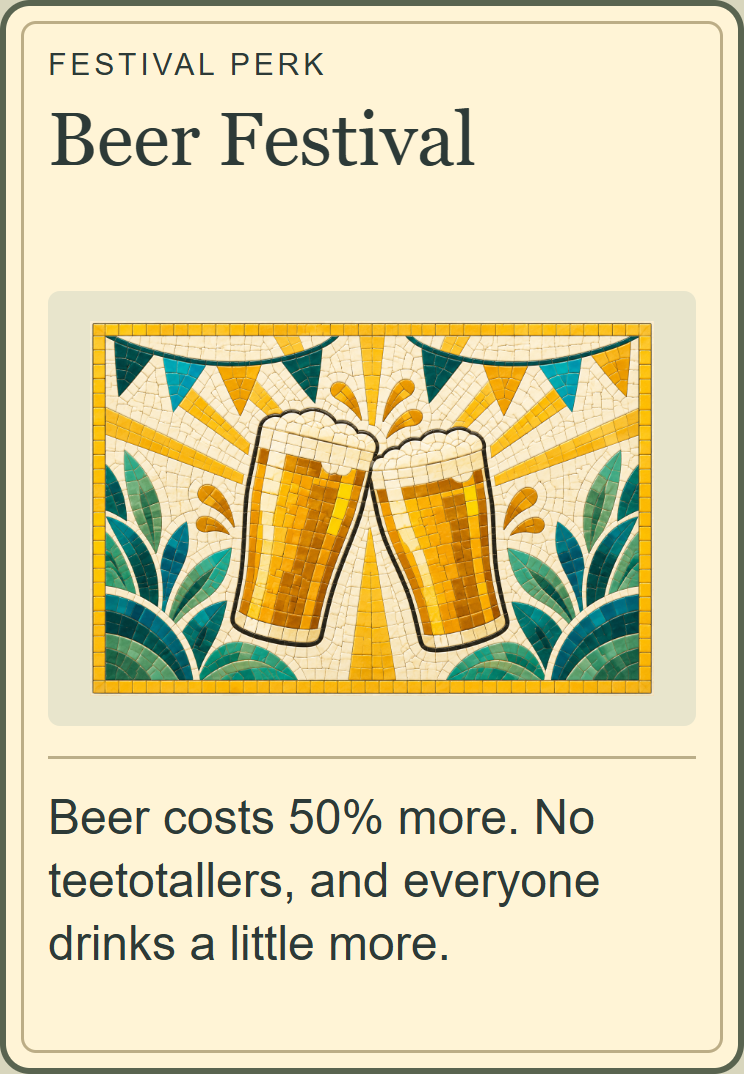
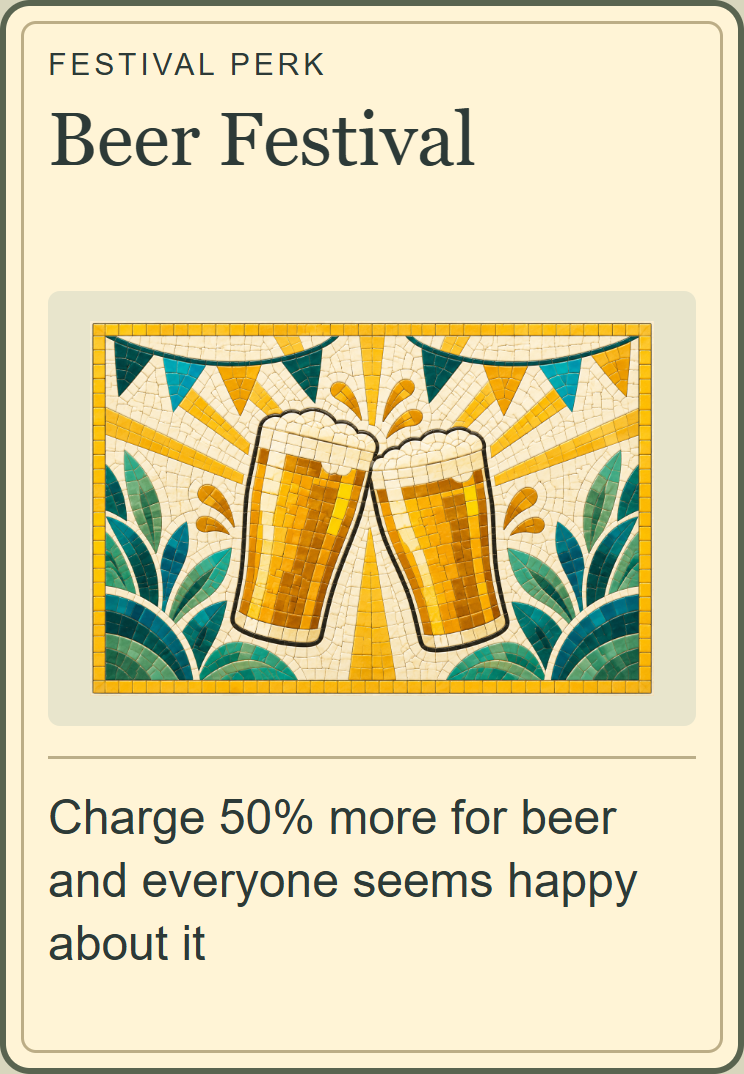
Set Beer Festival display copy to requested wording

Changed region(s): [[0.0618, 0.7374, 0.8656, 0.8911]]

diff --git a/assets/source/perks/mosaic-suite-batch2/review.html b/assets/source/perks/mosaic-suite-batch2/review.html
@@ -1,4 +1,4 @@
 <!doctype html><html lang="en"><meta charset="utf-8"><title>Mosaic perks · batch 2 review</title><style>
 *{box-sizing:border-box}body{margin:0;padding:24px;background:#d8d6bd;color:#2d3a37;font:16px/1.35 Arial,sans-serif}h1{font:28px Georgia,serif;margin:0 0 8px}.intro{margin:0 0 20px}.sheet{display:grid;grid-template-columns:repeat(3,248px);gap:24px;width:max-content}.unit>small{display:block;font-size:11px;margin:8px 0 0}.card{width:248px;height:358px;padding:14px;border:2px solid #596450;border-radius:10px;background:#fff4d6;position:relative}.card:before{content:'';position:absolute;inset:5px;border:1px solid #bcad86;border-radius:5px;pointer-events:none}.category{font-size:10px;letter-spacing:.13em;line-height:12px}.card h2{font:500 25px/1.04 Georgia,serif;height:56px;margin:5px 0 8px}.art{width:216px;height:145px;padding:10px;background:#e8e5cc;border-radius:4px;display:flex;align-items:center;justify-content:center}.art img{width:100%;height:100%;object-fit:contain}.effect{font:16px/1.3 Arial,sans-serif;margin:10px 0 0;padding-top:10px;border-top:1px solid #bbae89}.owned-sheet{display:grid;grid-template-columns:repeat(3,250px);gap:24px;width:max-content}.owned{width:250px;height:142px;padding:9px;background:#fff4d6;border-radius:5px}.owned header{display:flex;gap:8px}.thumb{width:46px;height:46px;flex:none;display:flex;align-items:center;justify-content:center}.thumb img{width:46px;height:46px;object-fit:contain}.owned h2{font:500 19px/1.1 Georgia,serif;width:174px;min-height:46px;margin:0}.owned p{font:14px/1.2 Arial,sans-serif;margin:6px 0 0;width:232px;min-height:66px}.section{font:24px Georgia,serif;margin:30px 0 15px}footer{margin-top:20px;font-size:13px}
 h1{line-height:34px}.intro{line-height:22px}.unit>small{line-height:16px}.section{line-height:28px}
-</style><h1>Festival perks · mosaic suite · batch 2</h1><p class="intro">Six new perks · exact current catalogue copy · artwork is text-free</p><main class="sheet"><section class="unit"><article class="card" id="card-beer-festival"><div class="category">FESTIVAL PERK</div><h2>Beer Festival</h2><div class="art"><img src="artwork/beer-festival.png" alt="Beer Festival"></div><p class="effect">Beer costs 50% more. No teetotallers, and everyone drinks a little more.</p></article><small>beer-festival</small></section><section class="unit"><article class="card" id="card-friendly-queues"><div class="category">FESTIVAL PERK</div><h2>Friendly Queues</h2><div class="art"><img src="artwork/friendly-queues.png" alt="Friendly Queues"></div><p class="effect">Guests chat in queues and gain satisfaction while they wait.</p></article><small>friendly-queues</small></section><section class="unit"><article class="card" id="card-bring-your-own-bottle"><div class="category">FESTIVAL PERK</div><h2>Bring Your Own Bottle</h2><div class="art"><img src="artwork/bring-your-own-bottle.png" alt="Bring Your Own Bottle"></div><p class="effect">Guests get thirsty more slowly, but take longer to fill up at taps.</p></article><small>bring-your-own-bottle</small></section><section class="unit"><article class="card" id="card-cola-fiends"><div class="category">FESTIVAL PERK</div><h2>Cola Fiends</h2><div class="art"><img src="artwork/cola-fiends.png" alt="Cola Fiends"></div><p class="effect">Guests prefer soft drinks to free water.</p></article><small>cola-fiends</small></section><section class="unit"><article class="card" id="card-alcoholics"><div class="category">FESTIVAL PERK</div><h2>Alcoholics</h2><div class="art"><img src="artwork/alcoholics.png" alt="Alcoholics"></div><p class="effect">Guests buy much more beer, and get drunk more.</p></article><small>alcoholics</small></section><section class="unit"><article class="card" id="card-robot-workers"><div class="category">FESTIVAL PERK</div><h2>Robot Workers</h2><div class="art"><img src="artwork/robot-workers.png" alt="Robot Workers"></div><p class="effect">Staff never need to drink, eat, cool off or use the loo.</p></article><small>robot-workers</small></section></main><h2 class="section">Suite-v1 owned-size review · 250 × 142</h2><section class="owned-sheet"><article class="owned" id="owned-beer-festival"><header><div class="thumb"><img src="artwork/beer-festival.png" alt="Beer Festival"></div><h2>Beer Festival</h2></header><p>Beer costs 50% more. No teetotallers, and everyone drinks a little more.</p></article><article class="owned" id="owned-friendly-queues"><header><div class="thumb"><img src="artwork/friendly-queues.png" alt="Friendly Queues"></div><h2>Friendly Queues</h2></header><p>Guests chat in queues and gain satisfaction while they wait.</p></article><article class="owned" id="owned-bring-your-own-bottle"><header><div class="thumb"><img src="artwork/bring-your-own-bottle.png" alt="Bring Your Own Bottle"></div><h2>Bring Your Own Bottle</h2></header><p>Guests get thirsty more slowly, but take longer to fill up at taps.</p></article><article class="owned" id="owned-cola-fiends"><header><div class="thumb"><img src="artwork/cola-fiends.png" alt="Cola Fiends"></div><h2>Cola Fiends</h2></header><p>Guests prefer soft drinks to free water.</p></article><article class="owned" id="owned-alcoholics"><header><div class="thumb"><img src="artwork/alcoholics.png" alt="Alcoholics"></div><h2>Alcoholics</h2></header><p>Guests buy much more beer, and get drunk more.</p></article><article class="owned" id="owned-robot-workers"><header><div class="thumb"><img src="artwork/robot-workers.png" alt="Robot Workers"></div><h2>Robot Workers</h2></header><p>Staff never need to drink, eat, cool off or use the loo.</p></article></section><footer>Review compositions follow the suite-v1 pipeline, not a running-game screenshot. Runtime PNGs have no titles or effect text.</footer></html>
+</style><h1>Festival perks · mosaic suite · batch 2</h1><p class="intro">Six new perks · exact current catalogue copy · artwork is text-free</p><main class="sheet"><section class="unit"><article class="card" id="card-beer-festival"><div class="category">FESTIVAL PERK</div><h2>Beer Festival</h2><div class="art"><img src="artwork/beer-festival.png" alt="Beer Festival"></div><p class="effect">Charge 50% more for beer and everyone seems happy about it</p></article><small>beer-festival</small></section><section class="unit"><article class="card" id="card-friendly-queues"><div class="category">FESTIVAL PERK</div><h2>Friendly Queues</h2><div class="art"><img src="artwork/friendly-queues.png" alt="Friendly Queues"></div><p class="effect">Guests chat in queues and gain satisfaction while they wait.</p></article><small>friendly-queues</small></section><section class="unit"><article class="card" id="card-bring-your-own-bottle"><div class="category">FESTIVAL PERK</div><h2>Bring Your Own Bottle</h2><div class="art"><img src="artwork/bring-your-own-bottle.png" alt="Bring Your Own Bottle"></div><p class="effect">Guests get thirsty more slowly, but take longer to fill up at taps.</p></article><small>bring-your-own-bottle</small></section><section class="unit"><article class="card" id="card-cola-fiends"><div class="category">FESTIVAL PERK</div><h2>Cola Fiends</h2><div class="art"><img src="artwork/cola-fiends.png" alt="Cola Fiends"></div><p class="effect">Guests prefer soft drinks to free water.</p></article><small>cola-fiends</small></section><section class="unit"><article class="card" id="card-alcoholics"><div class="category">FESTIVAL PERK</div><h2>Alcoholics</h2><div class="art"><img src="artwork/alcoholics.png" alt="Alcoholics"></div><p class="effect">Guests buy much more beer, and get drunk more.</p></article><small>alcoholics</small></section><section class="unit"><article class="card" id="card-robot-workers"><div class="category">FESTIVAL PERK</div><h2>Robot Workers</h2><div class="art"><img src="artwork/robot-workers.png" alt="Robot Workers"></div><p class="effect">Staff never need to drink, eat, cool off or use the loo.</p></article><small>robot-workers</small></section></main><h2 class="section">Suite-v1 owned-size review · 250 × 142</h2><section class="owned-sheet"><article class="owned" id="owned-beer-festival"><header><div class="thumb"><img src="artwork/beer-festival.png" alt="Beer Festival"></div><h2>Beer Festival</h2></header><p>Charge 50% more for beer and everyone seems happy about it</p></article><article class="owned" id="owned-friendly-queues"><header><div class="thumb"><img src="artwork/friendly-queues.png" alt="Friendly Queues"></div><h2>Friendly Queues</h2></header><p>Guests chat in queues and gain satisfaction while they wait.</p></article><article class="owned" id="owned-bring-your-own-bottle"><header><div class="thumb"><img src="artwork/bring-your-own-bottle.png" alt="Bring Your Own Bottle"></div><h2>Bring Your Own Bottle</h2></header><p>Guests get thirsty more slowly, but take longer to fill up at taps.</p></article><article class="owned" id="owned-cola-fiends"><header><div class="thumb"><img src="artwork/cola-fiends.png" alt="Cola Fiends"></div><h2>Cola Fiends</h2></header><p>Guests prefer soft drinks to free water.</p></article><article class="owned" id="owned-alcoholics"><header><div class="thumb"><img src="artwork/alcoholics.png" alt="Alcoholics"></div><h2>Alcoholics</h2></header><p>Guests buy much more beer, and get drunk more.</p></article><article class="owned" id="owned-robot-workers"><header><div class="thumb"><img src="artwork/robot-workers.png" alt="Robot Workers"></div><h2>Robot Workers</h2></header><p>Staff never need to drink, eat, cool off or use the loo.</p></article></section><footer>Review compositions follow the suite-v1 pipeline, not a running-game screenshot. Runtime PNGs have no titles or effect text.</footer></html>

diff --git a/src/Festival.Simulation/Perks.cs b/src/Festival.Simulation/Perks.cs
@@ -20,7 +20,7 @@ public static class PerkCatalogue
         new("first-responders", "First Responders", "All medics walk faster and treat more quickly.", PerkRarity.Rare, 40),
         new("something-in-the-water", "Something in the Water", "Drinking free water improves satisfaction.", PerkRarity.Common, 110),
         new("thirsty-crowd", "Thirsty Crowd", "Guests grow thirsty faster.", PerkRarity.Common, 130),
-        new(BeerFestival, "Beer Festival", "Charge 50% more for beer and everyone loves it.", PerkRarity.Uncommon, 45),
+        new(BeerFestival, "Beer Festival", "Charge 50% more for beer and everyone seems happy about it", PerkRarity.Uncommon, 45),
         new(FriendlyQueues, "Friendly Queues", "Guests chat in queues: happier while they wait, and slower to lose patience.", PerkRarity.Uncommon, 45),
         new(BringYourOwnBottle, "Bring Your Own Bottle", "Guests get thirsty more slowly, but take longer to fill up at taps.", PerkRarity.Common, 120),
         new(ColaFiends, "Cola Fiends", "Guests prefer soft drinks to free water.", PerkRarity.Common, 120),

diff --git a/briefs/results/beer-festival-copy-independent-review.md b/briefs/results/beer-festival-copy-independent-review.md
@@ -1,0 +1,15 @@
+# Beer Festival copy: independent review
+
+14 October 2026. **PASS — no blocking findings in the wording-only scope.**
+
+Reviewed `docs/WORKING-AGREEMENTS.md`, the Builder result, the checkpoint and actual scoped diff against `d778488b0a34654cfbfefdf272dad0d6328da1f5`. This review made no implementation or delivery changes.
+
+- The catalogue effect, active fourteen-card manifest, batch-2 manifest and both batch-2 HTML descriptions contain exactly `Charge 50% more for beer and everyone seems happy about it`, with no terminal punctuation. The source diff changes only the effect string; each manifest changes only Beer Festival's effect field. The HTML changes only its two Beer Festival descriptions.
+- Native draft cards, owned-card effect metadata/popups and gain/lose descriptions obtain their effect from `PerkCatalogue` in `game/Hud/PerkPanel.cs`. Searches found no remaining old display copy in the inspected source, perk manifests or HTML.
+- Stable id `beer-festival`, name `Beer Festival`, rarity `Uncommon` and weight `45` are unchanged. `PerkEffects.cs`, `Immersion.cs` and the HUD consumer have no diff against the base. The 150% beer price, no-teetotallers behavior and increased beer preference/drinking remain intact. No satisfaction mechanic was introduced.
[1 lines of base64/hex data omitted]
+- Visually inspected all three regenerated Beer Festival previews (744×1074, 248×358 and 250×142), the contact sheet and the owned-size sheet. The complete requested copy is readable without clipping or overlap. The existing mosaic artwork and card styling are retained. Designer mirror hashes match these inspected outputs.
+- Inspected the bounded renderer and its retained fit evidence. It loads the existing HTML/master, verifies exact catalogue/manifest/DOM copy and master/runtime hashes, checks text bottom bounds at both small sizes, and verifies the three PNG dimensions. Its writes are limited to the three Beer previews, two composite sheets and its check report. The retained checks pass; direct image inspection corroborates text fit.
+- Reviewed the unchanged BeerFestival and PerkArtwork test implementations and checkpoint-matching execution logs: **3/3 passed** for pricing/abstainers, increased sales/save restoration and runtime artwork/catalogue consistency. The checkpoint-matching Debug game build log reports **zero warnings and zero errors**. These existing checks were reviewed, not rerun during this review.
+
+Acceptance is limited to this copy change and its HTML-derived review images. No full Windows export was requested or produced; existing EXEs must not be described as containing the new wording. Native runtime rendering was not newly captured. Unrelated dirty work and the queued development tier are outside this review.

diff --git a/briefs/results/beer-festival-copy.md b/briefs/results/beer-festival-copy.md
@@ -1,0 +1,13 @@
+# Beer Festival display copy
+
+14 October 2026. User-authorized wording-only change relayed by the established coordinator.
+
+The display/effect copy is exactly **Charge 50% more for beer and everyone seems happy about it**, without added punctuation. `PerkCatalogue` supplies the draft, owned-card and gain/lose descriptions in `Hud/PerkPanel.cs`, so all current native descriptions receive the same string.
+
+Updated the active fourteen-card artwork manifest, the Beer Festival entry in the batch-2 manifest and its two HTML descriptions. Regenerated only Beer Festival's full/draft/owned PNG reviews plus the two composite sheets. The Designer workspace batch-2 manifest/HTML and those five derived images mirror the update. Its original eight-card suite has no Beer Festival entry and remains historical.
+
+Stable id `beer-festival`, name, rarity, weight, standalone runtime/source artwork and artwork hash remain unchanged. All mechanical source is unchanged: existing beer price multiplier, no-teetotallers and increased-drinking behavior remain; no satisfaction mechanic was added. Original prompts, historical decision/provenance records, the existing all-card renderer/checks and other individual card previews remain untouched. The bounded renderer in `reports/evidence/beer-festival-copy/render-review.cjs` typesets the new copy in the existing HTML layout; it does not regenerate artwork or claim a native game screenshot.
+
+Verification: 3/3 `BeerFestivalTests` and `PerkArtworkTests` passed. These exercise pricing/abstainers, increased sales and save restoration, and all fourteen runtime artwork hashes/catalogue descriptions. Existing tests required no edits. Debug game build passed with zero warnings/errors. Exact DOM copy, text fit at 248x358 and 250x142, and all three PNG sizes (including 744x1074) passed. All 24 protected-file hashes matched; only Beer Festival's effect field changed in each manifest. Retained logs, preview checks and scoped hashes are under `reports/evidence/beer-festival-copy`.
+
+Fresh independent GPT-6 Astra MEDIUM review **PASS**, recorded in `beer-festival-copy-independent-review.md`: exact copy, preserved mechanics/artwork, all 44 checkpoint hashes and five preview images verified. No Windows export was made for this request; existing EXEs do not include this new wording. Barn programming/allocation and unrelated dirty work are outside scope and unchanged.
